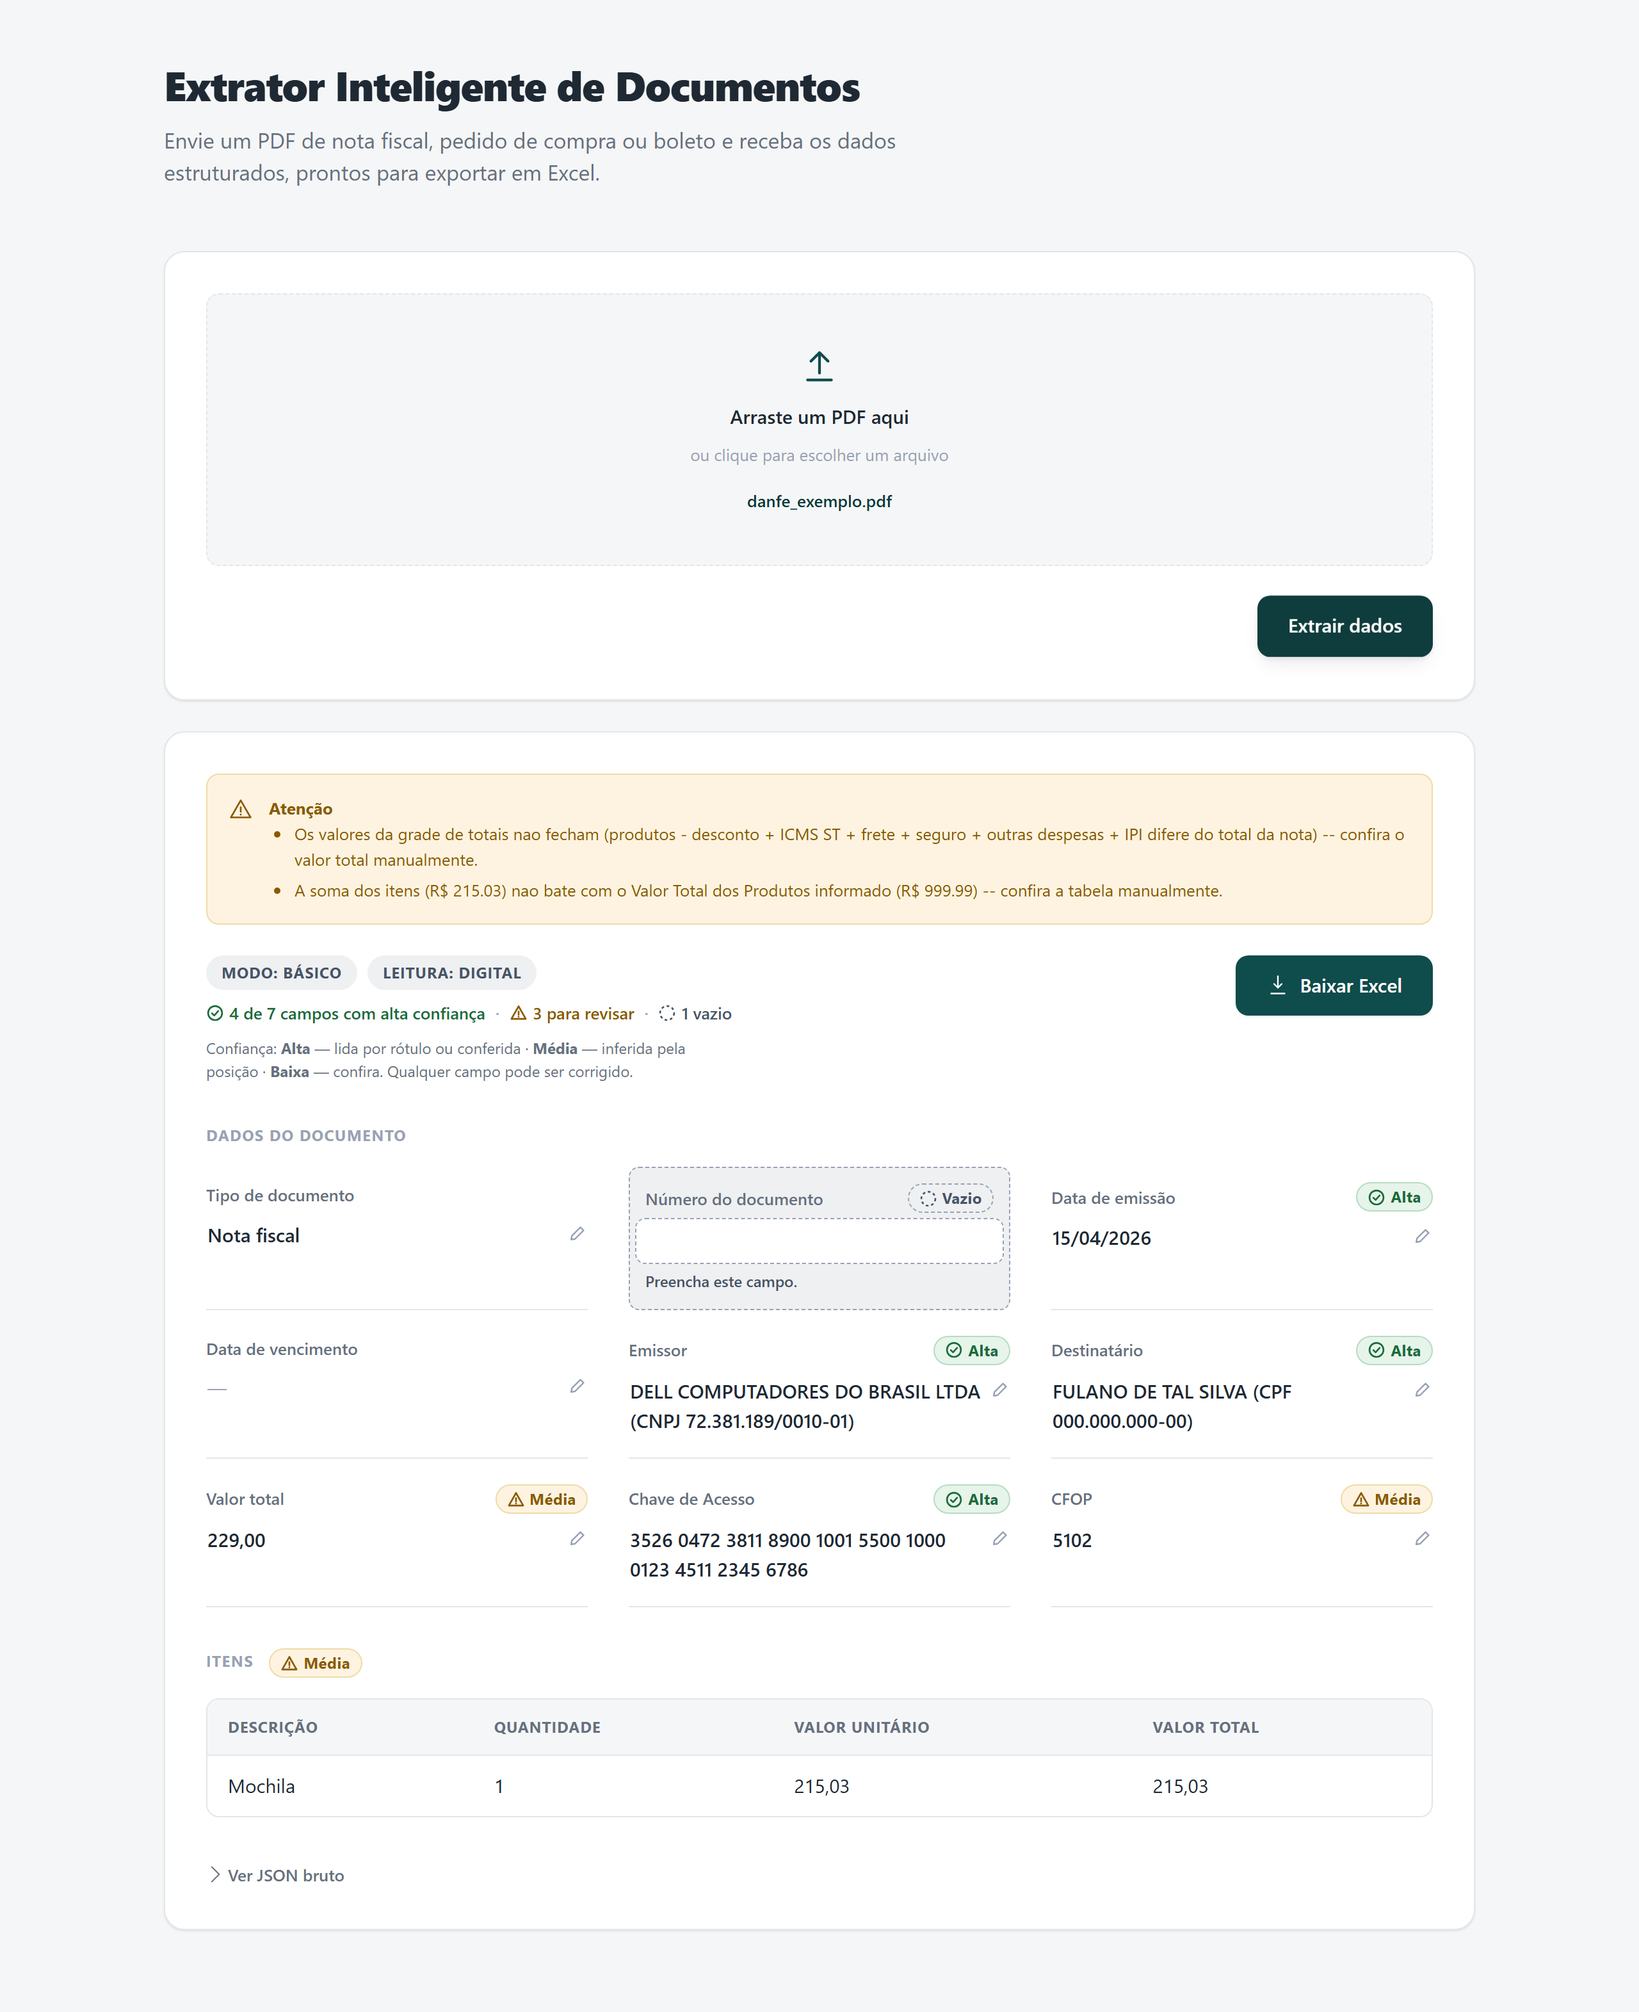
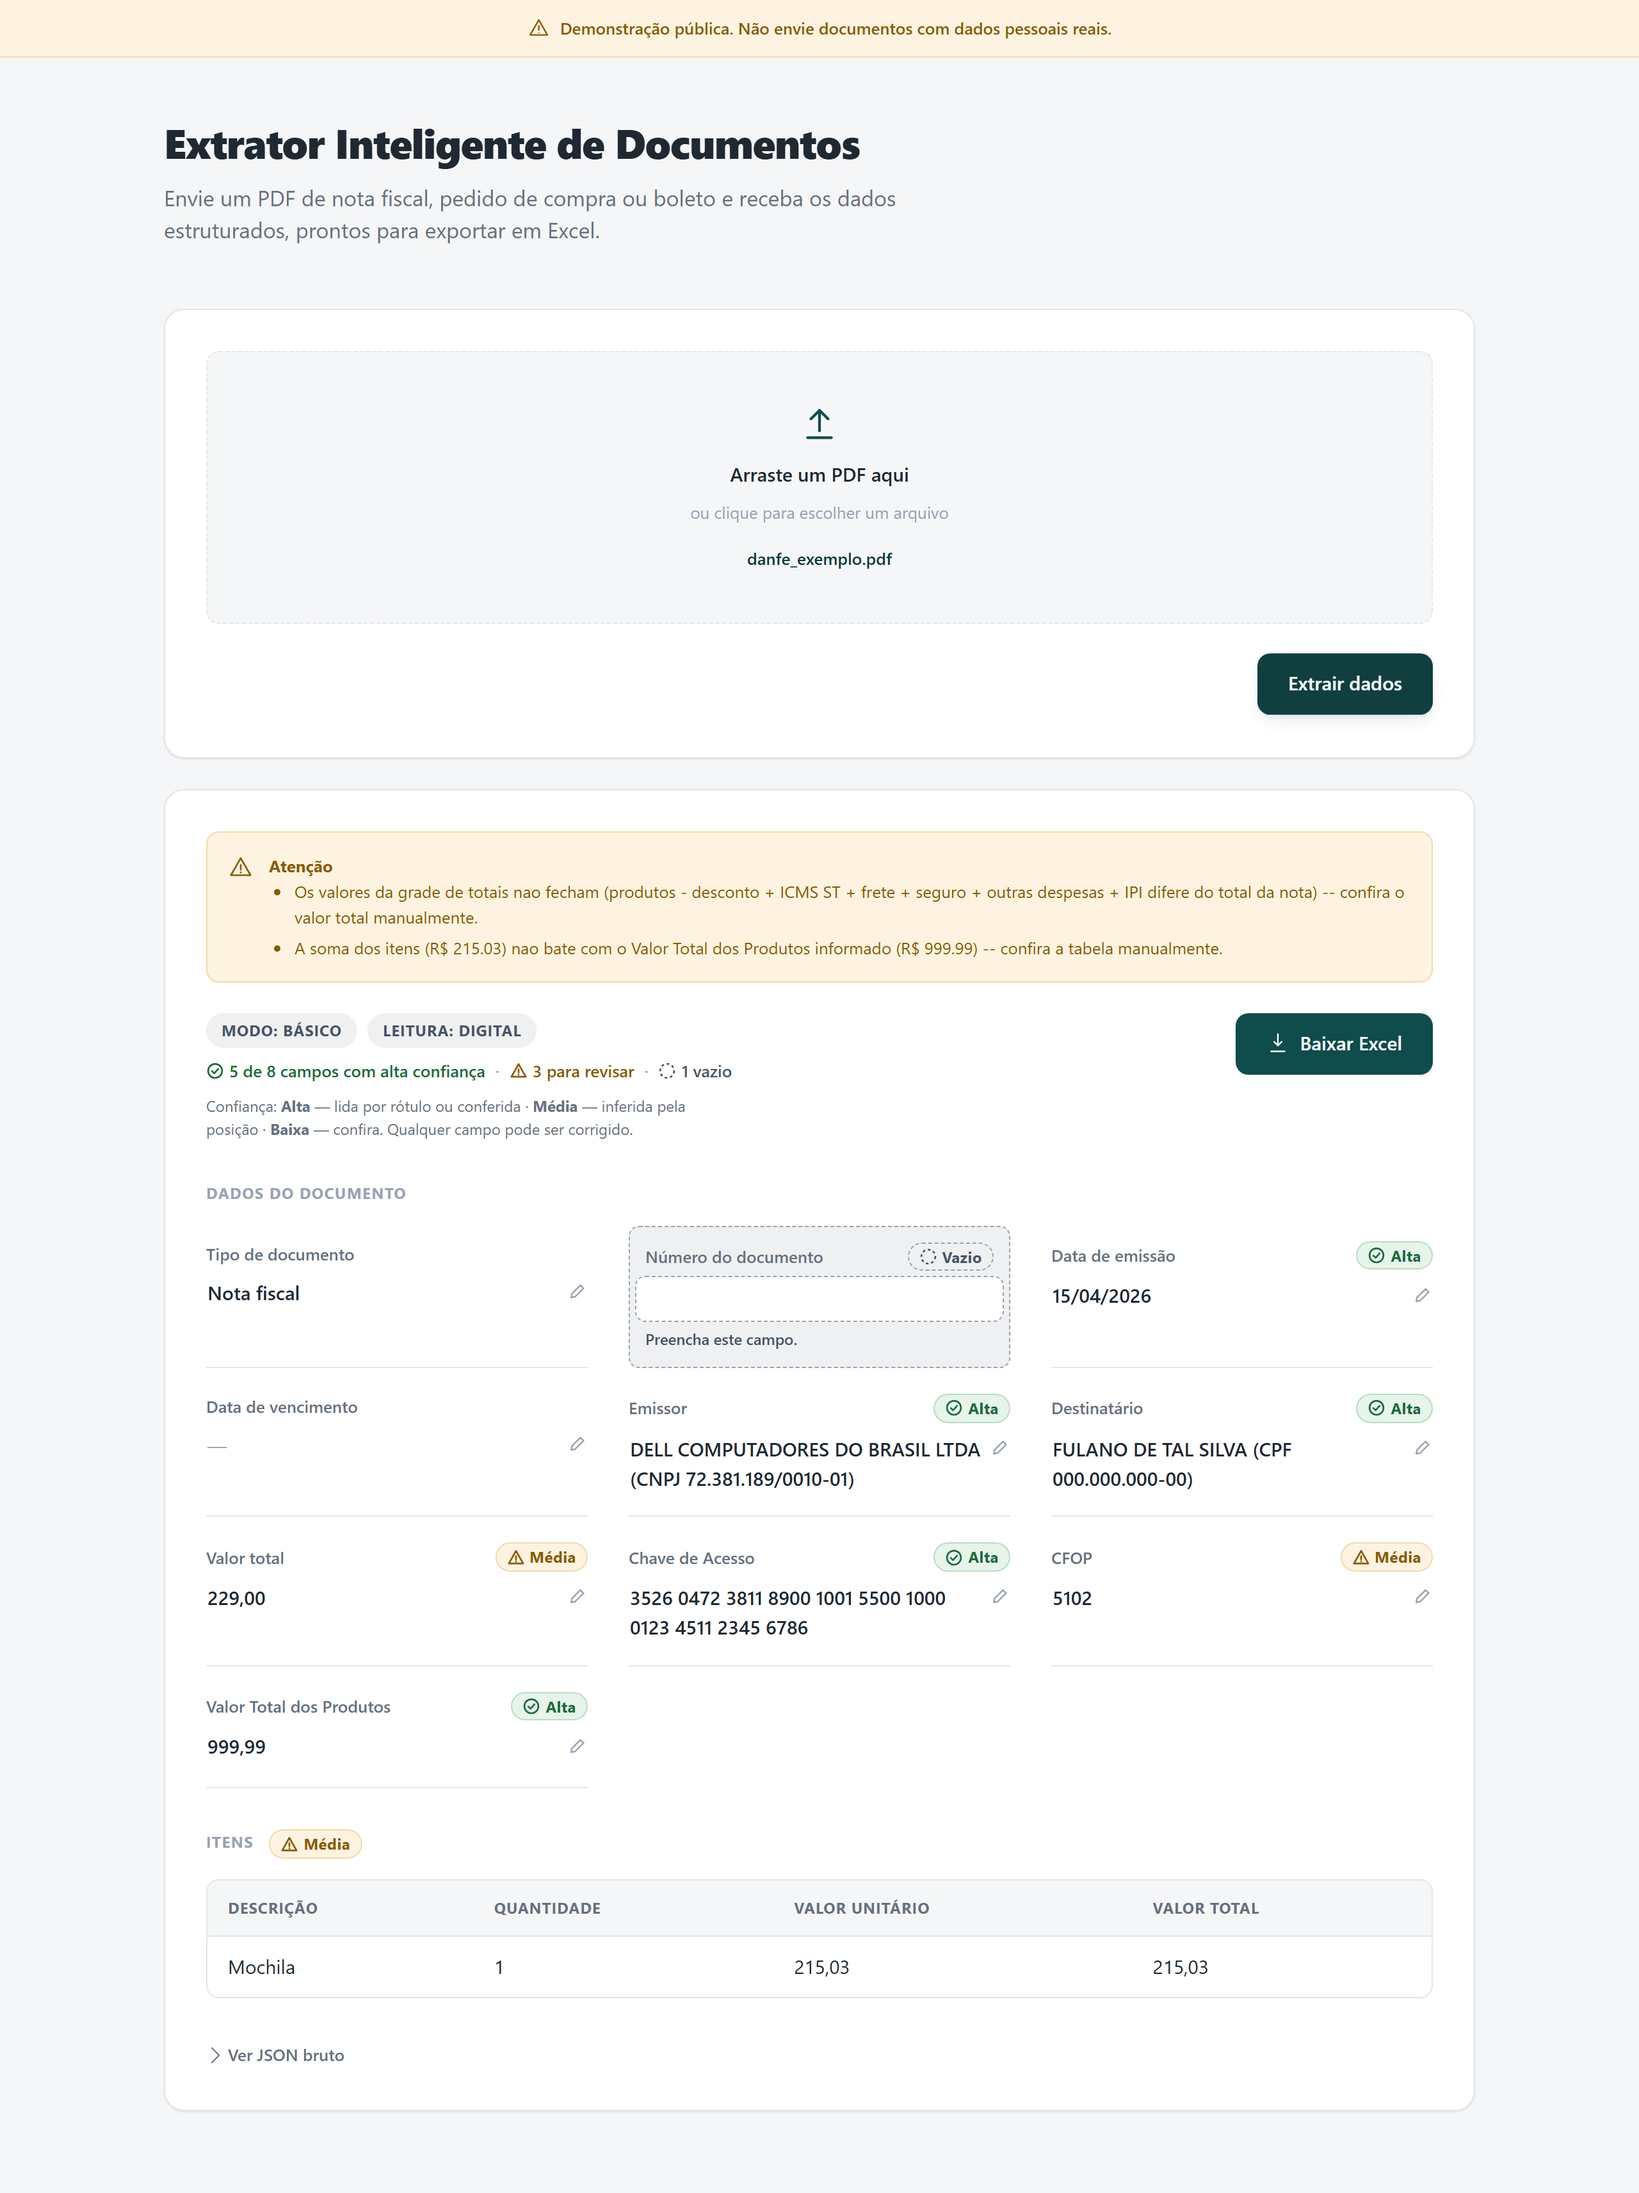
README: desempenho medido, decisoes descartadas e revisao final (itens 6 e 8)
- Secao Desempenho com numeros medidos de novo (mediana de 5): extracao de
  DANFE 1/10/50/100 paginas = 0,027/0,289/1,44/2,89 s, ~29 ms por pagina,
  linear. O gargalo real era concorrencia (event loop bloqueado), nao CPU.
  Achado novo, registrado como proximo passo: no teto da API (5000 itens) o
  Excel leva 8,5 s, superlinear, por causa do merge_cells do openpyxl na aba
  Relatorio (veio da etapa 9; 2,9 s antes dela).
- "O que ficou de fora, e por que": tunel temporario x Render, fila de
  tarefas, xlsxwriter, login na demo, formatacao condicional no lugar das
  cores fixas (o rastro do campo revisado) e linha de titulo no Excel.
- Limite de uso documentado, com a limitacao conferida ao vivo na demo: o
  proxy do Render anexa ao X-Forwarded-For em vez de substituir.
- Revisao: contagem de testes (358: 319 + 30 e2e + 9 SDK), paragrafo
  duplicado enxugado, Status atualizado, screenshot regenerado (o antigo era
  anterior a faixa de demonstracao publica; so dados ficticios).
- CLAUDE.md: secao "Limite de uso e desempenho" e arquivos novos.

diff --git a/backend/app/rate_limit.py b/backend/app/rate_limit.py
@@ -130,10 +130,14 @@ def ip_do_cliente(scope: dict, confiar_x_forwarded_for: bool) -> str:
     ignorado -- quem fala direto com o servidor nao consegue forjar outro IP.
     Com ele (ligado no Render, onde toda requisicao chega por um proxy): o
     PRIMEIRO IP de X-Forwarded-For, que e o cliente quando o proxy o preenche.
-    LIMITACAO CONHECIDA: o proxy do Render so ANEXA ao cabecalho que o cliente
-    mandou, entao quem envia um X-Forwarded-For forjado escolhe a propria chave
-    e contorna o limite. Aceitavel pra um limite de demo (ver docstring do
-    modulo); quem precisar de mais que isso deve limitar na borda."""
+    LIMITACAO CONHECIDA, conferida na demo em 2026-09-26: o proxy do Render so
+    ANEXA ao cabecalho que o cliente mandou (3 requisicoes com X-Forwarded-For
+    forjados diferentes receberam 9, 9, 9 restantes; sem o cabecalho, 9 e 8),
+    entao quem forja o cabecalho escolhe a propria chave e contorna o limite.
+    Navegador nao forja, entao vale pro uso normal; barrar um script de verdade
+    pede limite na borda (Cloudflare). Pegar o ULTIMO IP da lista nao resolve
+    sem saber quantos proxies o Render poe no caminho -- errar isso colocaria
+    todos os visitantes na cota do IP de um proxy."""
     cliente = scope.get("client")
     conexao = cliente[0] if cliente else "desconhecido"
     if not confiar_x_forwarded_for:

diff --git a/CLAUDE.md b/CLAUDE.md
@@ -41,6 +41,7 @@ backend/app/
                         #   total/grafico de lote, listas suspensas, protecao (openpyxl) -- ver "Excel"
   confianca.py         # confianca geral ("X de Y alta"): a mesma regra da tela, em Python
   logging_config.py    # log estruturado (logger "app") + request-id em contextvar -- ver "Robustez e observabilidade"
+  rate_limit.py        # limite por IP (middleware ASGI, janela deslizante em memoria) -- idem
 backend/tests/
   fixtures/boleto_real_anonimizado.txt     # texto bruto de boleto real (dados trocados)
   fixtures/danfe_real_anonimizado.txt      # COMPOSTO de trechos reais (nao as 84 linhas) -- ver docstring do teste
@@ -61,6 +62,8 @@ backend/tests/
   test_limites.py                       # tetos de tamanho/quantidade (upload, debug, /export-excel)
   test_logging_config.py, test_observabilidade.py # log estruturado, request-id e X-Request-ID
   test_erros_de_leitura.py              # PDF com senha e PDF sem paginas: mensagem propria, nao "corrompido"
+  test_rate_limit.py                    # limite por IP: limitador (relogio falso), IP, middleware, app real, uvicorn real
+  e2e/test_interface_limite.py          #   (e2e) o 429 aparece na tela com a mensagem do backend
   e2e/                                  # testes de interface no navegador (Playwright) -- opt-in, ver "Testes"
     helpers.py                          #   servidor uvicorn temporario + PDFs FICTICIOS gerados por PyMuPDF
     conftest.py, test_interface_confianca.py
@@ -606,7 +609,7 @@ meio de um handler pode deixar a tela "quase certa"; a validação captura
 `pageerror`.
 
 **Como é validado:** testes e2e versionados em `backend/tests/e2e/`
-(Playwright num Chromium real, 26 testes). PDFs **fictícios** gerados por
+(Playwright num Chromium real, 30 testes). PDFs **fictícios** gerados por
 PyMuPDF (`helpers.gerar_pdfs`) — nunca documento real. Cobrem: chips e contagem
 do resumo conferidos contra o JSON da resposta por uma conta independente em
 Python, banner com 2 avisos, campos abertos/fechados por estado, clique e teclado
@@ -843,9 +846,54 @@ Medido antes de corrigir, cada item com teste que reproduz o problema:
   realmente corrompido continua "corrompido", e PDF escaneado de verdade continua
   com o aviso de imagem (testes de falso positivo).
 
-Itens do diagnóstico **ainda não feitos** (adiados de propósito): números de
-tempo de extração publicados, rate limit por IP nos uploads e o parágrafo de
-"decisões descartadas" no README.
+## Limite de uso e desempenho (itens 6 a 8 do diagnóstico)
+
+**Limite por IP** (`app/rate_limit.py`, `tests/test_rate_limit.py`,
+`tests/e2e/test_interface_limite.py`):
+- **10 por minuto, por IP, por grupo**: "extracao" (`/extract-document` e os 3
+  `/debug/*`) e "exportacao" (`/export-excel`), cotas separadas. Critério: um
+  humano faz 3–4 extrações por minuto; 10 dá folga pra quem grava vídeo e limita
+  um script a 600/h. `RATE_LIMIT_POR_MINUTO` (0 desliga; inválido volta ao
+  padrão). Um teste exige que **todo endpoint POST** esteja em `GRUPOS_POR_ROTA`.
+- **Middleware ASGI**, não `Depends`: o 429 sai antes de o upload (até 20 MB)
+  ser lido. Registrado **por dentro** do `RequestIdMiddleware` (o 429 tem
+  `X-Request-ID`). Janela deslizante em memória; recusa não é registrada;
+  memória limitada a 10 mil IPs (LRU); IPv6 conta por /64. Resposta JSON com
+  `detail` em português ("Você atingiu o limite de 10 extrações por minuto da
+  demonstração pública. Aguarde N segundos…"), `Retry-After`, `X-RateLimit-*`.
+  A tela mostra o `detail` do 429 **sem** "Falha ao…" (não é falha); a
+  exportação passou a mostrar o `detail` também (antes só "Erro N").
+- **IP do cliente**: por padrão o da conexão. No Render, o primeiro IP do
+  `X-Forwarded-For`, ligado automaticamente por `RENDER=true` (o Render sempre
+  define): um serviço sem Blueprint ignora os envVars do `render.yaml`, e sem
+  isso todos dividiriam a cota do IP do proxy. `CONFIAR_X_FORWARDED_FOR`
+  explícita tem prioridade. **Conferido na demo (2026-09-26):** o proxy do
+  Render **anexa** ao cabeçalho, não substitui: visitante normal é contado
+  pelo IP real, mas forjar o cabeçalho dá cota nova (limitação documentada no
+  README; barrar script de verdade pede limite na borda).
+- Testes que sobem uvicorn: `helpers.iniciar_servidor()` sobe com o limite
+  **desligado** (as suítes fazem dezenas de POSTs por minuto) e aceita
+  `env_extra`. O uvicorn, por padrão, reescreve o IP do cliente a partir do
+  `X-Forwarded-For` quando a conexão vem de 127.0.0.1 (`--forwarded-allow-ips`):
+  os testes com o cabeçalho usam `FORWARDED_ALLOW_IPS` apontando pra outro
+  endereço, pra testar a nossa lógica e não a do uvicorn. A fixture `tela` do
+  e2e aceita `status_http_esperados` (o Chromium loga 429/500 provocados como
+  erro de console).
+
+**Desempenho** (README, seção "Desempenho"; medido em 2026-09-26, mediana de 5):
+extração de DANFE sintética 1/10/50/100 páginas = 0,027/0,289/1,44/2,89 s
+(~29 ms/página, linear); ponta a ponta via HTTP soma ~20 ms; OCR ~1,7 s/página;
+Excel 23 ms no uso normal. **Achado:** no teto da API (5000 itens) o Excel leva
+**8,5 s**, superlinear, por causa do `merge_cells` do openpyxl na aba Relatório
+(`MultiCellRange.add` confere cada mesclagem contra todas as anteriores: 12,6
+milhões de comparações). Veio da etapa 9 (2,9 s → 8,2 s no teto); a etapa 10
+somou ~3%. **Não corrigido** (mudaria o layout aprovado do Relatório):
+registrado como próximo passo.
+
+**Decisões descartadas** estão no fim de "Decisões técnicas" do README (Render ×
+túnel temporário, fila de tarefas, xlsxwriter, login, formatação condicional,
+linha de título). Na hora do deploy **não** houve comparação formal com
+Railway/Fly.io: o README não afirma uma.
 
 ## Convenções
 
@@ -923,7 +971,7 @@ direto com um `UploadFile` montado na mão, porque `httpx` (TestClient) não
 está nas dependências.
 
 **Testes e2e (interface, opt-in).** `tests/e2e/` roda a interface num Chromium
-real e **não** entra no `pytest tests` normal (que pula os 26 e2e sem subir
+real e **não** entra no `pytest tests` normal (que pula os 30 e2e sem subir
 servidor nem navegador, e não exige Playwright). Dependências separadas:
 
 ```bash
